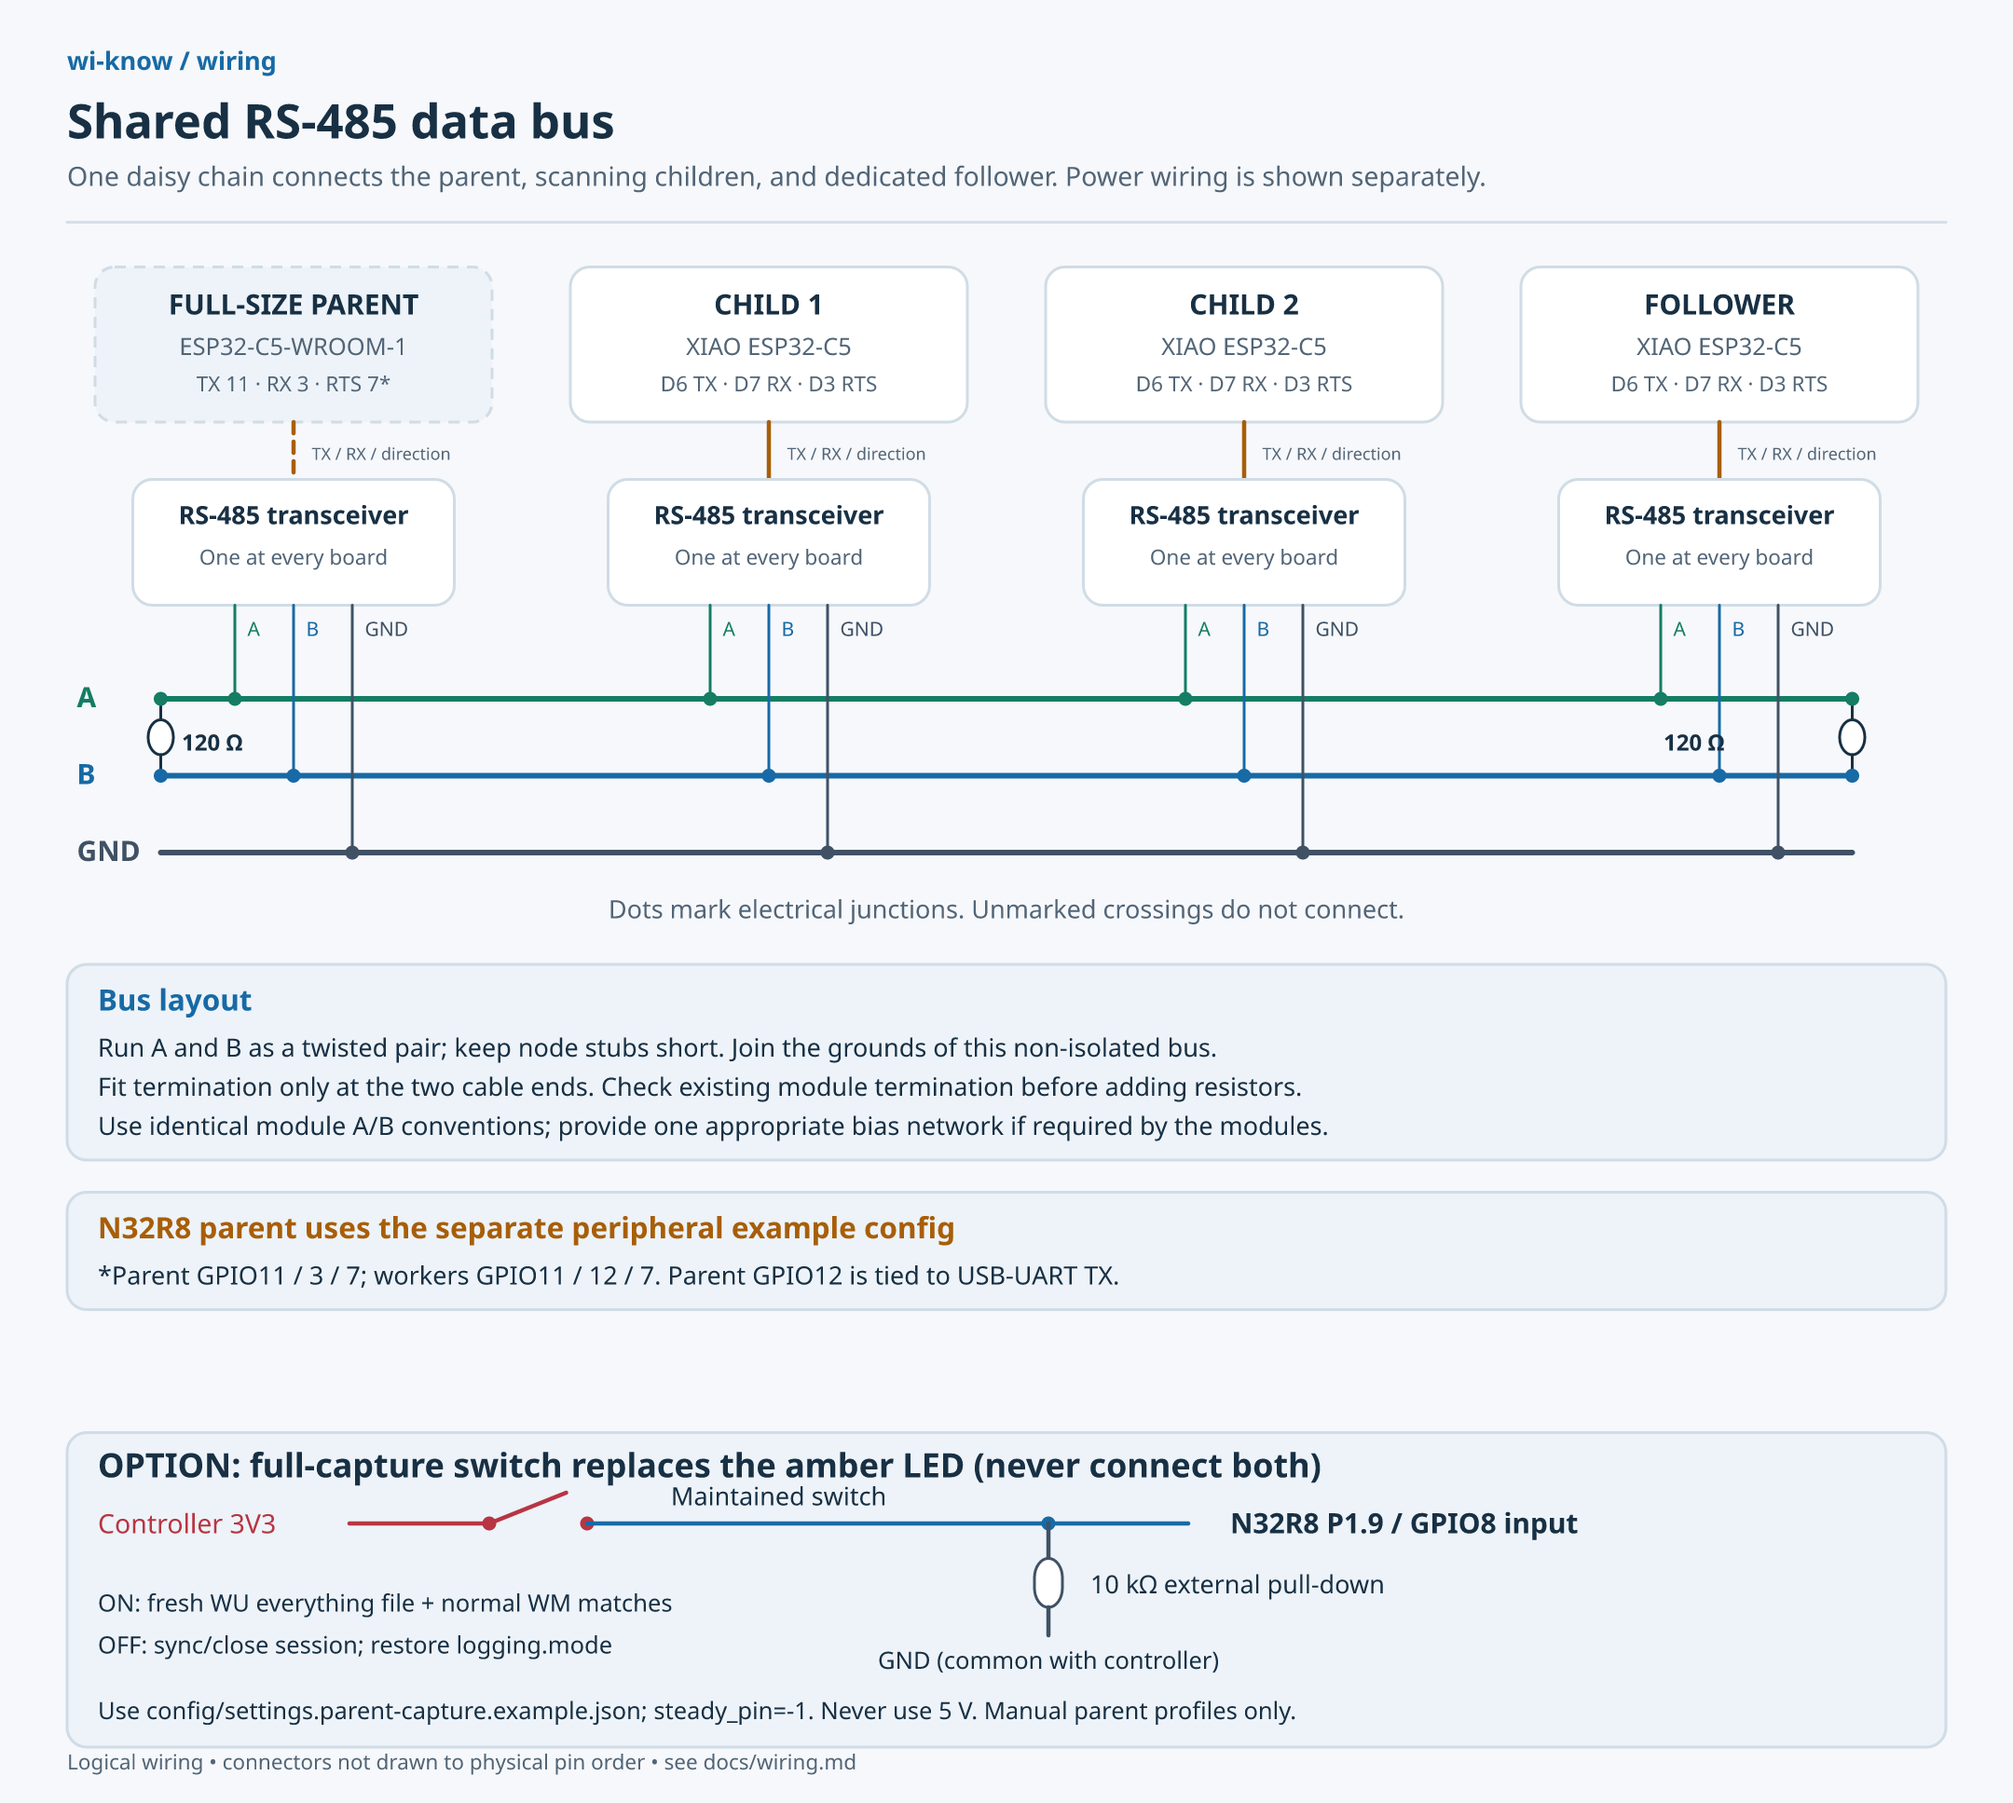
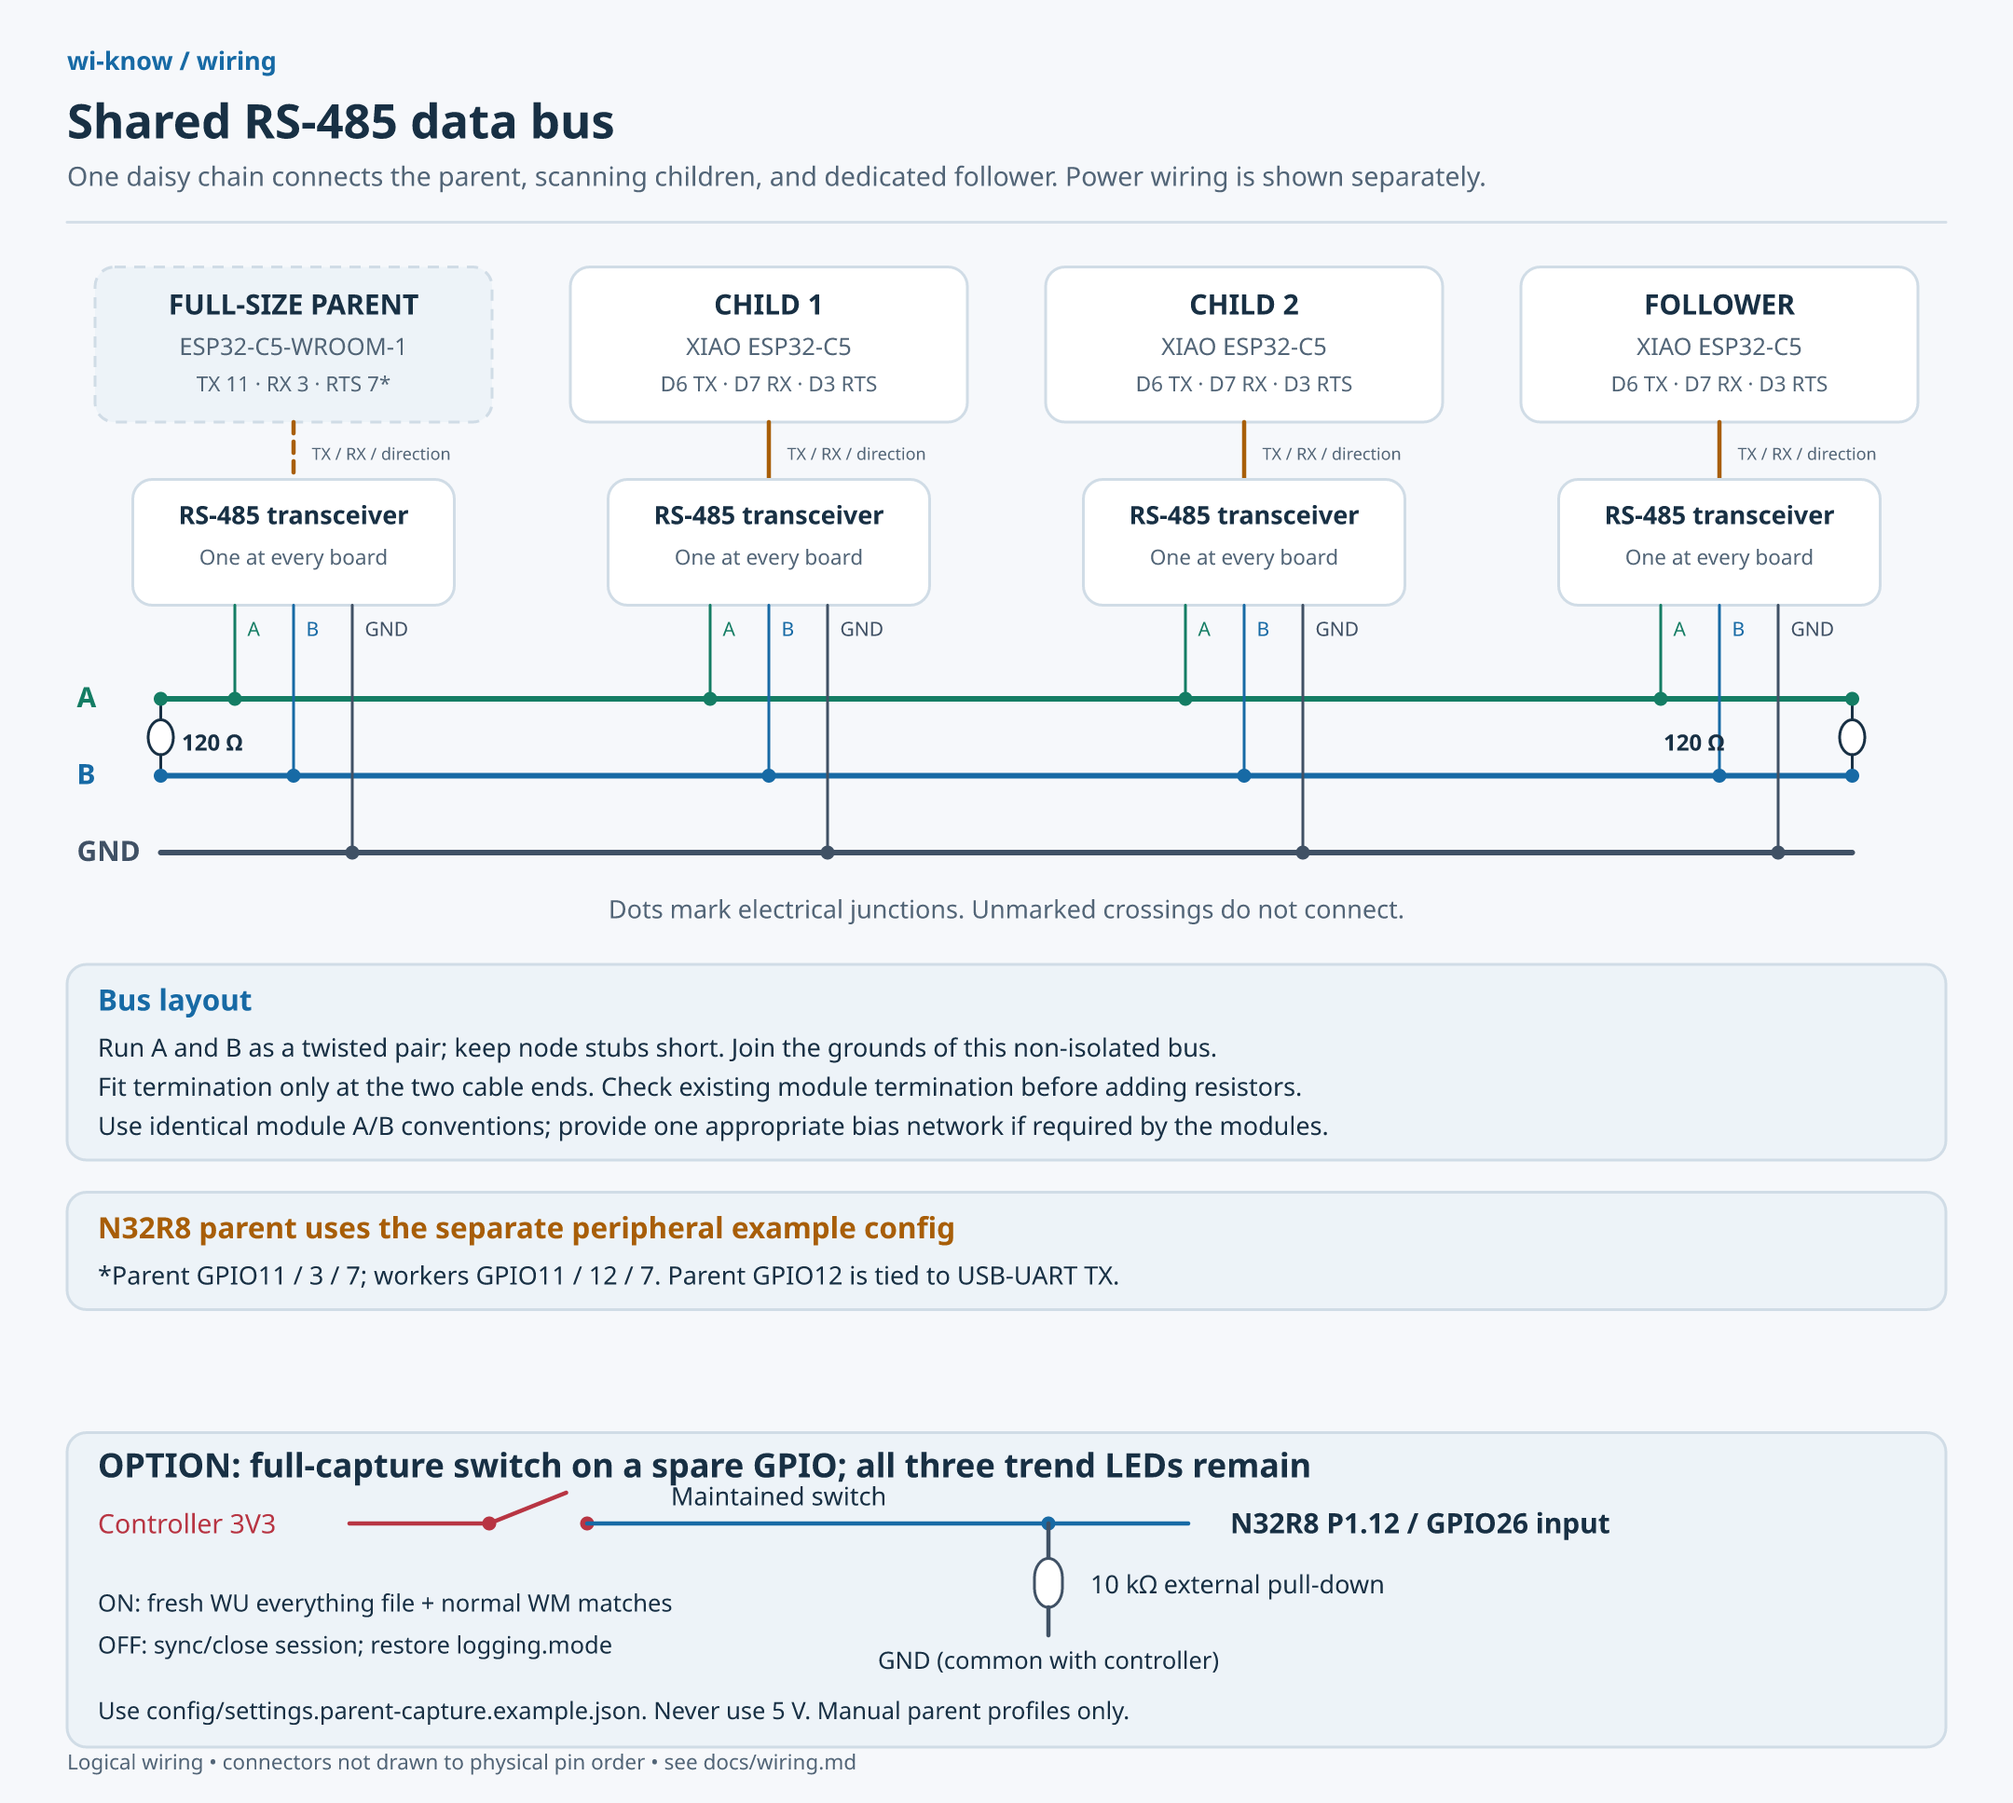
Keep amber LEDs with capture switches on verified spare pins

Changed region(s): [[0.2792, 0.8062, 0.6514, 0.8372], [0.3412, 0.9302, 0.6204, 0.9612], [0.6824, 0.8372, 0.8065, 0.8682]]

diff --git a/tools/generate_wiring.py b/tools/generate_wiring.py
@@ -62,10 +62,10 @@ class Diagram:
             self.parts[0] = self.parts[0].replace(f'height="{old_height}"', f'height="{self.height}"').replace(
                 f'1440 {old_height}', f'1440 {self.height}')
             self.parts[4] = self.parts[4].replace(f'height="{old_height}"', f'height="{self.height}"')
-            pin = 'XIAO D1 / GPIO0' if name == 'xiao-standalone-wiring' else 'N32R8 P1.9 / GPIO8'
+            pin = 'XIAO MTCK / GPIO4 pad' if name == 'xiao-standalone-wiring' else 'N32R8 P1.12 / GPIO26'
             y = old_height + 25
             self.box(48, y, 1344, 225, fill='#edf3f8')
-            self.text(70, y + 32, 'OPTION: full-capture switch replaces the amber LED (never connect both)', size=24, weight=700)
+            self.text(70, y + 32, 'OPTION: full-capture switch on a spare GPIO; all three trend LEDs remain', size=24, weight=700)
             self.text(70, y + 72, 'Controller 3V3', size=19, color=RED)
             self.line([(250, y+65), (350, y+65)], RED)
             self.dot(350, y+65, RED)
@@ -83,7 +83,9 @@ class Diagram:
             self.text(70, y+128, 'ON: fresh WU everything file + normal WM matches', size=17)
             self.text(70, y+158, 'OFF: sync/close session; restore logging.mode', size=17)
             variant = 'standalone' if name == 'xiao-standalone-wiring' else 'parent'
-            self.text(70, y+205, f'Use config/settings.{variant}-capture.example.json; steady_pin=-1. Never use 5 V. Manual parent profiles only.', size=17)
+            if variant == 'standalone':
+                self.text(70, y+184, 'Solder to underside MTCK pad; keep native USB; do not connect an external pad JTAG probe.', size=17)
+            self.text(70, y+205, f'Use config/settings.{variant}-capture.example.json. Never use 5 V. Manual parent profiles only.', size=17)
         self.text(48, self.height - 24, footer, size=15, color=MUTED)
         content = '\n'.join(self.parts + ['</svg>'])
         path = OUT / f'{name}.svg'
@@ -475,8 +477,8 @@ def parent_headers(png):
             ('GPIO2', 'SD MISO / DO'), ('GPIO3', 'Parent RS-485 RO / RX'),
             ('GPIO0', 'Green LED through 470 Ω'), ('GPIO1', 'Red LED through 470 Ω'),
             ('GPIO6', 'Reserved: battery ADC'), ('GPIO7', 'RS-485 DE + /RE'),
-            ('GPIO8', 'Amber LED OR capture switch'), ('GPIO9', 'Buzzer base through 1 kΩ'),
-            ('GPIO10', 'GPS TX to parent RX'), ('GPIO26', 'Leave boot strap free'),
+            ('GPIO8', 'Amber LED through 470 Ω'), ('GPIO9', 'Buzzer base through 1 kΩ'),
+            ('GPIO10', 'GPS TX to parent RX'), ('GPIO26', 'Optional capture switch input'),
             ('GPIO25', 'SD CS'), ('5V', 'Board rail; power plan below'),
             ('GND', 'Common ground'), ('VBAT', 'Battery rail; not a 5 V output')]
     right = [('GND', 'Common ground'), ('TX / GPIO11', 'RS-485 DI / parent TX'),

diff --git a/tests/test_config.py b/tests/test_config.py
@@ -47,6 +47,19 @@ class ConfigTests(unittest.TestCase):
         self.assertFalse(defaults['capture_switch']['enabled'])
         self.assertEqual(defaults['capture_switch']['gpio_pin'], -1)
 
+    def test_capture_examples_keep_all_leds_on_spare_pins(self):
+        for variant, pin, amber in [('parent', 26, 8), ('standalone', 4, 0)]:
+            source = generate.load(ROOT/f'config/settings.{variant}-capture.example.json')
+            settings, _ = generate.validate(source, board_override=source['board']['model'])
+            self.assertEqual(settings['capture_switch']['gpio_pin'], pin)
+            self.assertEqual(settings['signal_trend']['steady_pin'], amber)
+            for key in ('increasing_pin', 'steady_pin', 'decreasing_pin'):
+                self.assertGreaterEqual(settings['signal_trend'][key], 0)
+            # A configurable input must still not overlap a fitted peripheral.
+            source['capture_switch']['gpio_pin'] = amber
+            with self.assertRaisesRegex(ValueError, 'used by'):
+                generate.validate(source)
+
     def test_board_profiles_match_documented_wiring_and_preserve_behavior(self):
         source = generate.load(ROOT/'config/settings.standalone-wiring.example.json')
         original = copy.deepcopy(source)

diff --git a/tools/generate_config.py b/tools/generate_config.py
@@ -236,10 +236,11 @@ def validate(settings, role_override=None, node_override=None, base=ROOT, board_
     if switch['enabled']:
         require(node['role'] == 'parent', 'capture switch requires manual parent role')
         require(board in BOARD_PINS, 'capture switch requires an explicit xiao or n32r8 board profile')
-        # Header-accessible input pins excluding straps, USB, flash/PSRAM and onboard loads.
+        # Exposed headers/pads excluding straps, USB, flash/PSRAM and onboard loads.
+        # XIAO GPIO3/4/5 are underside JTAG pads; use native USB, not a pad JTAG probe.
         # GPIO0/1 assume the optional 32 kHz crystal is absent (see wiring docs).
-        safe = ({0, 1, 8, 9, 10, 11, 12, 23, 24} if board == 'xiao'
-                else {0, 1, 4, 5, 8, 9, 10, 11, 23, 24})
+        safe = ({0, 1, 3, 4, 5, 8, 9, 10, 11, 12, 23, 24} if board == 'xiao'
+                else {0, 1, 4, 5, 8, 9, 10, 11, 23, 24, 26})
         require(switch['gpio_pin'] in safe, 'capture switch GPIO is reserved, strapping, or unavailable on selected board')
     used = {}
     if universal:

diff --git a/docs/wiring.md b/docs/wiring.md
@@ -51,6 +51,7 @@ XIAO assignments here, not the N32R8 parent's GPIO numbers.
 | Increasing LED (green) | D0 / GPIO1 | 470 Ω → LED anode; cathode → GND | 1 |
 | Decreasing LED (red) | D2 / GPIO25 | 470 Ω → LED anode; cathode → GND | 1 |
 | Steady LED (amber) | D1 / GPIO0 | 470 Ω → LED anode; cathode → GND | 1 |
+| Capture switch (optional) | Underside MTCK / GPIO4 | 3V3 → maintained switch → pad; 10 kΩ pad-to-GND | 1 underside pad |
 
 Screen + GPS + microSD use **7 GPIOs**; adding the buzzer uses 8; adding all
 three LEDs uses **all 11 D0–D10 header GPIOs**. GPS is receive-only, so it needs
@@ -173,6 +174,7 @@ used for LCD rather than external JTAG. Native USB stays on GPIO13/14. See the
 | Q1 collector | Buzzer negative; buzzer positive → regulated +5 V |
 | GPIO4 / GPIO5 | SDA / SCL → level shifter LV side → HV side → LCD SDA / SCL |
 | GPIO10, UART0 RX | GPS TX; GPS RX left disconnected |
+| GPIO26 / P1.12 (optional) | 3V3 → maintained capture switch → GPIO26; 10 kΩ GPIO26-to-GND |
 | GPIO23 / P2.5 | microSD SCK / CLK |
 | GPIO24 / P2.4 | microSD MOSI / DI / CMD |
 | GPIO2 / P1.3 | microSD MISO / DO / DAT0 |
@@ -356,20 +358,26 @@ has not yet been verified on the physical boards.
 
 Use a maintained SPST switch: **controller 3V3 → switch → input GPIO**, with
 **10 kΩ from the input GPIO to common GND**. Never use 5 V. All parent/system
-and standalone diagrams above include this alternative circuit. It replaces the
-amber LED connection; remove that LED/resistor wire before connecting the switch.
+and standalone diagrams above include this additional circuit. All three trend
+LEDs, including amber, stay connected to their original GPIOs.
 
 | Controller | Input | Configuration |
 | --- | --- | --- |
-| N32R8 distributed or standalone parent | P1.9 / GPIO8 | [Parent capture example](../config/settings.parent-capture.example.json) |
-| XIAO standalone | D1 / GPIO0 | [Standalone capture example](../config/settings.standalone-capture.example.json) |
+| N32R8 distributed or standalone parent | P1.12 / GPIO26 | [Parent capture example](../config/settings.parent-capture.example.json) |
+| XIAO standalone | Underside MTCK / GPIO4 solder pad | [Standalone capture example](../config/settings.standalone-capture.example.json) |
 
-Both examples set `signal_trend.steady_pin: -1` and select the corresponding
-`board.model`. Board profiles preserve individual LED assignments of `-1`.
-The original wiring examples still describe three LEDs without the switch.
-No spare header GPIO remains with all XIAO peripherals fitted. On N32R8, GPIO26
-is a strap, so it is deliberately excluded. GPIO0 on XIAO assumes no optional
-32 kHz crystal. The pin maps were checked against the
+Both examples select the corresponding `board.model` and preserve all three
+LEDs. No spare D0–D10 header GPIO remains on a fully populated XIAO; its underside
+**MTCK / GPIO4** pad supplies the extra input. Identify the pad using the
+[Seeed underside pinout](https://files.seeedstudio.com/wiki/XIAO_ESP32C5/Getting_started/XIAO_ESP32-C5_back_pinout.png),
+solder and secure a fine wire, and leave external pad JTAG probes disconnected.
+Native USB Serial/JTAG remains usable. Other exposed non-strapping JTAG pads
+GPIO3/5 are also allowed if unused; MTMS/GPIO2 is a strap and is rejected.
+
+N32R8 **P1.12 / GPIO26** is unused by the manual parent peripherals and is not a
+C5 strapping pin (the old header diagram mislabeled it). Do not use this wire
+with universal firmware: that profile already uses GPIO26 for GPS RX.
+The pin maps were checked against the
 [Seeed pin documentation](https://wiki.seeedstudio.com/xiao_esp32c5_getting_started/),
 [Waveshare schematic](https://files.waveshare.com/wiki/ESP32-C5-WIFI6-KIT-NXRX/ESP32-C5-WIFI6-KIT-NXRX-Schematic.pdf),
 and [Espressif GPIO restrictions](https://docs.espressif.com/projects/esp-idf/en/v5.5.1/esp32c5/api-reference/peripherals/gpio.html).

diff --git a/docs/capture-switch.md b/docs/capture-switch.md
@@ -9,15 +9,16 @@ valid; add this section to enable it with a supported board and available pin:
 ```json
 "capture_switch": {
   "enabled": true,
-  "gpio_pin": 8,
+  "gpio_pin": 26,
   "internal_pulldown": false,
   "debounce_ms": 50
 }
 ```
 
-This example is N32R8 GPIO8, with `board.model: "n32r8"` and
-`signal_trend.steady_pin: -1`. Use GPIO0 and `board.model: "xiao"` on standalone
-XIAO. Flash the matching capture example. GPIO configuration requires a rebuild;
+This example is N32R8 P1.12 / GPIO26, with `board.model: "n32r8"`.
+Use underside MTCK / GPIO4 and `board.model: "xiao"` on standalone XIAO.
+All three trend LEDs, including amber, remain connected. The XIAO pad requires
+soldering and must not also connect to an external JTAG probe; use native USB. Flash the matching capture example. GPIO configuration requires a rebuild;
 switch changes then apply live. Startup samples the physical level immediately;
 later changes require a stable level for `debounce_ms` (10–2000 ms). Sampling
 runs in the parent loop, so bus polling/storage latency adds to response time.
